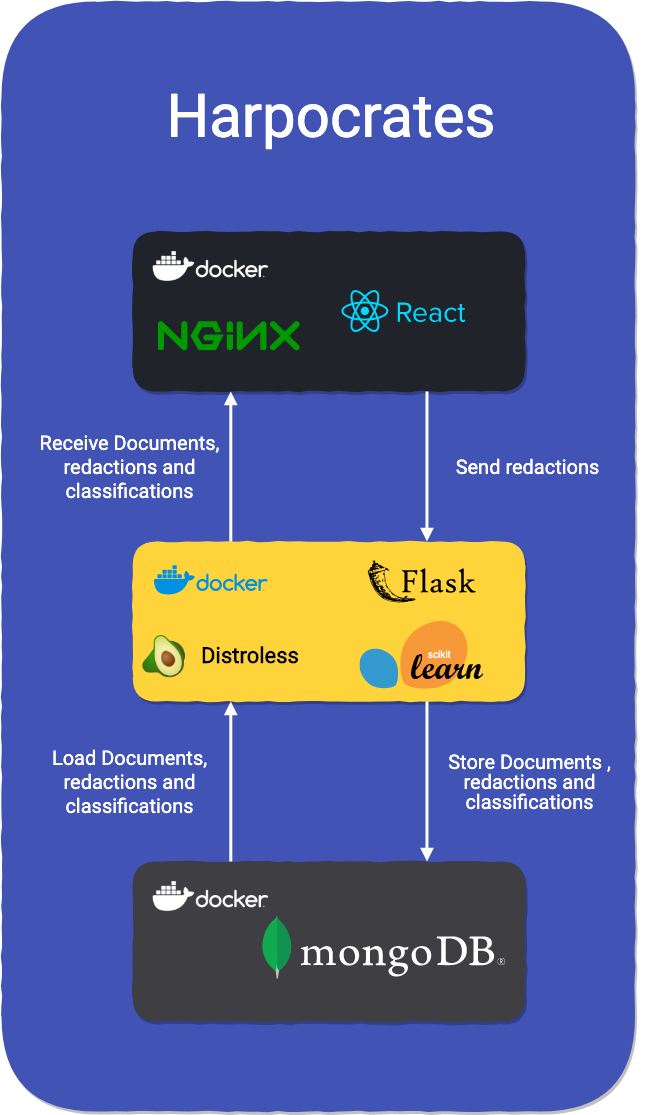
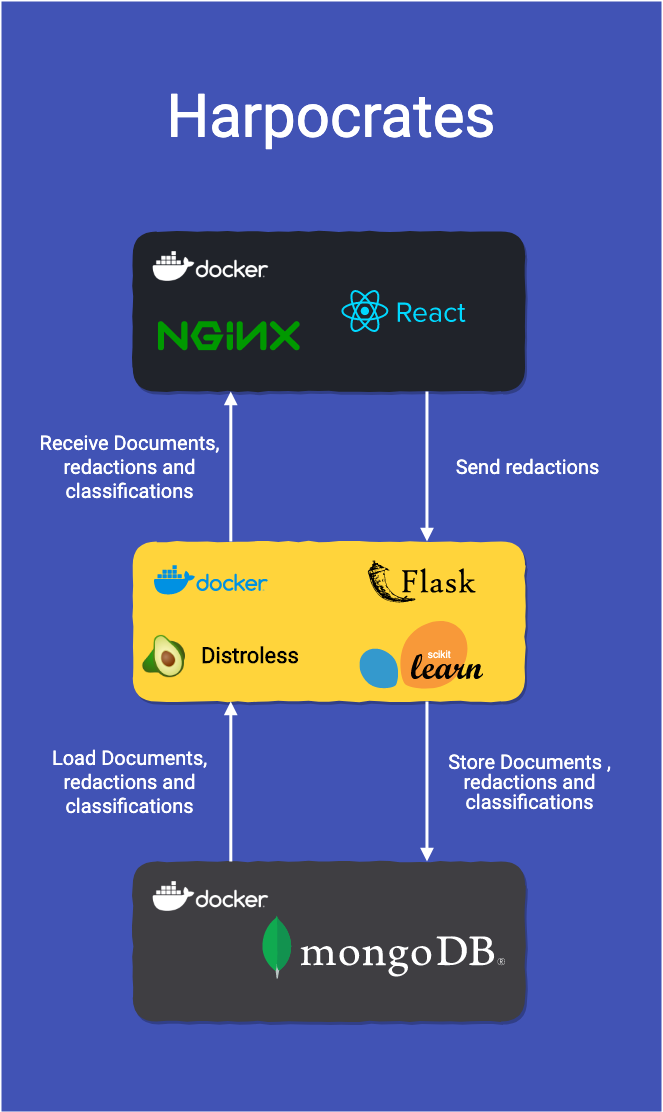
docs: better tech stack diagram

diff --git a/README.md b/README.md
@@ -63,9 +63,8 @@ Documentation for Harpocrates services is available here: [https://harpocrates-a
 The development Logbook of Harpocrates can be [found here](https://dissertation.guillaume.desusanne.com).
 
 <div align="center">
-  <img width="30%" src="docs/tech_stack.png" align="right" alt="Harpocrates tech stack">
+  <img width="25%" src="docs/tech_stack.png" alt="Harpocrates tech stack">
 </div>
-
 ### Develop locally (without docker)
 
 To run the stack without docker you will need to have:
